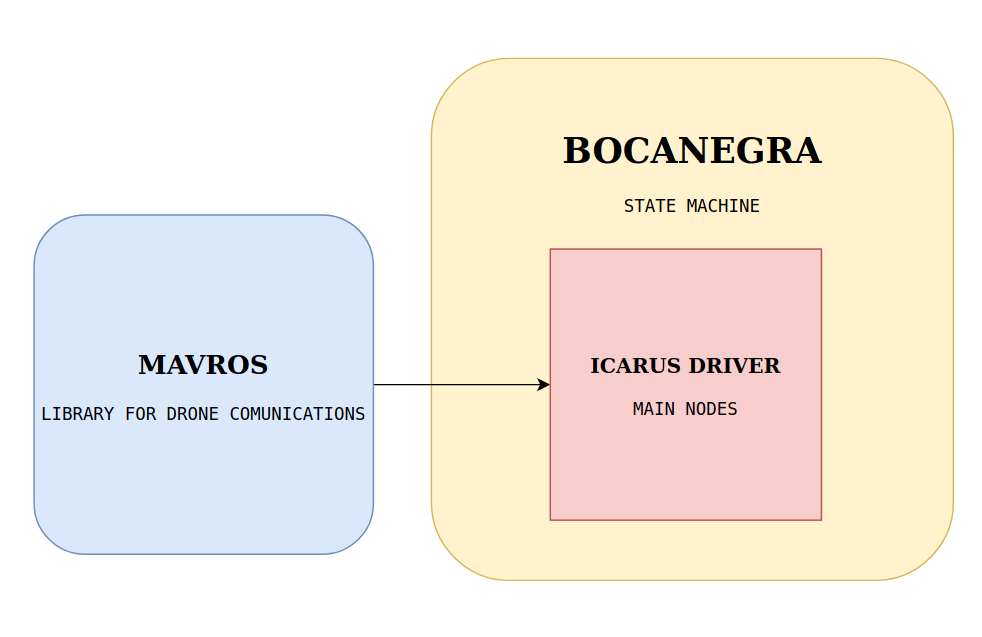
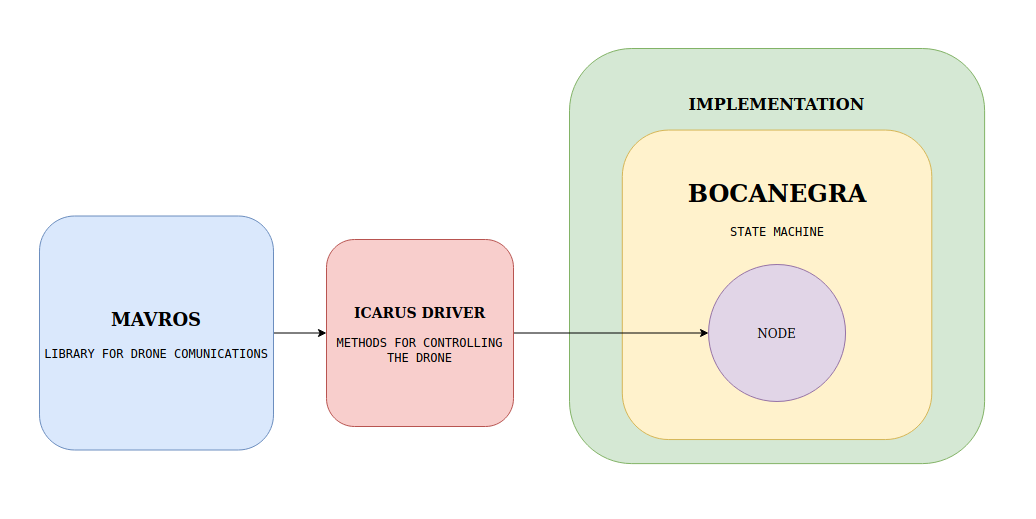
documentation revised, methods accesses added

diff --git a/src/ros_package/icarus_driver/README.md b/src/ros_package/icarus_driver/README.md
@@ -3,13 +3,15 @@
 #### API of Icarus driver
 
 
-| NAME  | DESCRIPTION | FUNCTION |
-| -------------| ------------- | ------------- |
-| set mode  | set the mode you want to operate with the drone  |`IcarusDriver::SetMode(std::string mode)`|
-| arm / disarm  | arm or disarm the drone | `IcarusDriver::armDisarm(int arm)`|
-| take off  | take off to a preorder altitude  |`IcarusDriver::takeoff(double alt)`|
-| move to local point  | move to a point in the local map |`IcarusDriver::moveLocalTo(double x, double y,double z)`|
-| ack notifier | notify an external serial port device |`IcarusDriver::notifyAck(std::string msg)`|
+| NAME  | DESCRIPTION | ACESS | FUNCTION |
+| -------------| ------------- | ------------- |------------- |
+| set mode  | set the mode you want to operate with the drone | `public` |`void IcarusDriver::SetMode(std::string mode)`|
+| arm / disarm  | arm or disarm the drone | `public` |`void IcarusDriver::armDisarm(int arm)`|
+| take off  | take off to a preorder altitude  |`public` | `void IcarusDriver::takeoff(double alt)`|
+| move to local point  | move to a point in the local map | `public`|`void IcarusDriver::moveLocalTo(double x, double y,double z)`|
+| turn to local point  | turn to a point in the local map | `public`|`IcarusDriver::void turnLocalTo(double roll, double pitch, double yaw);`|
+| Init parameters | inicialization of parameters | `private`| `IcarusDriver::void initParams();`|
+| ack notifier | notify an external serial port device |`private`|`void IcarusDriver::notifyAck(std::string msg)`|
 
 
 > TODO: landing(), emergency_landing(), move_global_to()
@@ -25,12 +27,13 @@ Bocanegra is a state machine conceived specially for this project and addressed 
 
 #### API of Bocanegra state machine driver
 
-| NAME  | DESCRIPTION | FUNCTION |
-| -------------| ------------- | ------------- |
-| is active | check if a node is active  | `Bocanegra::isActive(std::string node_name)` |
-| activate  | active an inactivate node | `Bocanegra::activate(std::string node_name)`|
-| deactivate  | deactivate a node |`Bocanegra::deactivate(std::string node_name)`|
-| states callback | give the vector of states |`Bocanegra::statesCallback(const boca_negra_msgs::states::ConstPtr msg)`|
+| NAME  | DESCRIPTION | ACESS | FUNCTION |
+| -------------| ------------- | ------------- |------------- |
+| is active | check if a node is active  | `protected` | `bool Bocanegra::isActive()` |
+| activate  | active an inactivate node | `protected` | `void Bocanegra::activate(std::string node_name)`|
+| deactivate  | deactivate a node | `protected` | `void Bocanegra::deactivate(std::string node_name)`|
+| states callback | give the vector of states |`private`|`void Bocanegra::statesCallback(const boca_negra_msgs::states::ConstPtr msg)`|
+| is active | check if a node is active  | `private` | `bool Bocanegra::isActive(std::string node_name)` |
 
 
 
@@ -55,4 +58,9 @@ Bocanegra is a state machine conceived specially for this project and addressed 
 
 <p align="center">
   <img width="580" height="310" src="docs/bocanegra_example.png">
+</p>
+
+
+<p align="center">
+  <img width="580" height="310" src="docs/bocanegra_example2.png">
 </p>

diff --git a/src/ros_package/README.md b/src/ros_package/README.md
@@ -44,7 +44,6 @@ This is the launch file located inside the *mavros* package previously installed
 
 
 
-
-At this moment, you can send commands to the simulated drone using ros topics or services, we strongly recommend to compile your ws before test anything, because sometimes some parts of mavros make some compilation problems.
+At this moment, you can send commands to the simulated drone using ros topics or services, we strongly recommend to compile your ws before test anything, because sometimes some parts of mavros make some compilation problems: `catkin_make -j 1`
 
 Enjoy!
